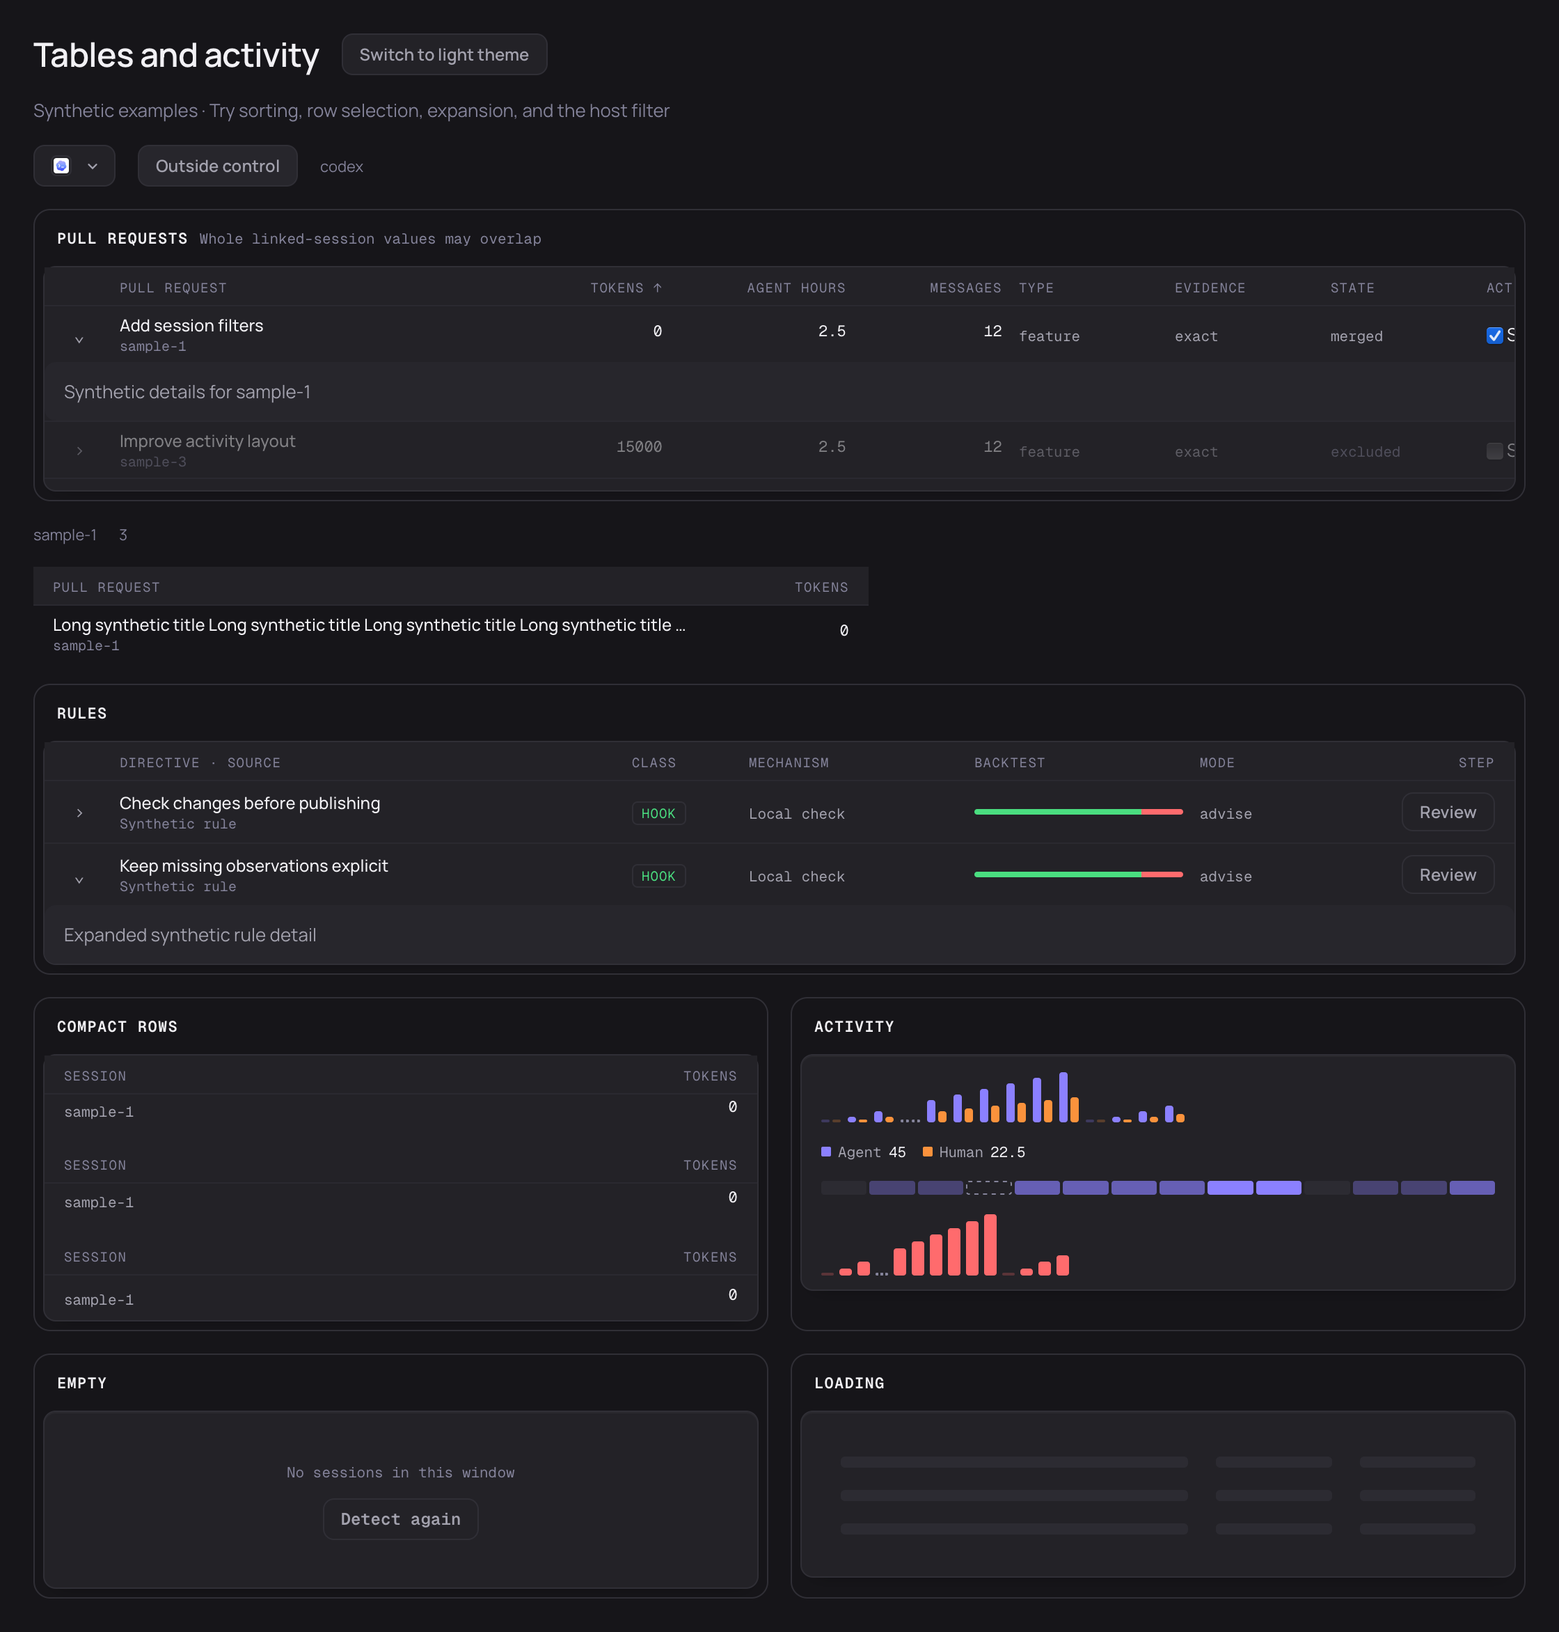
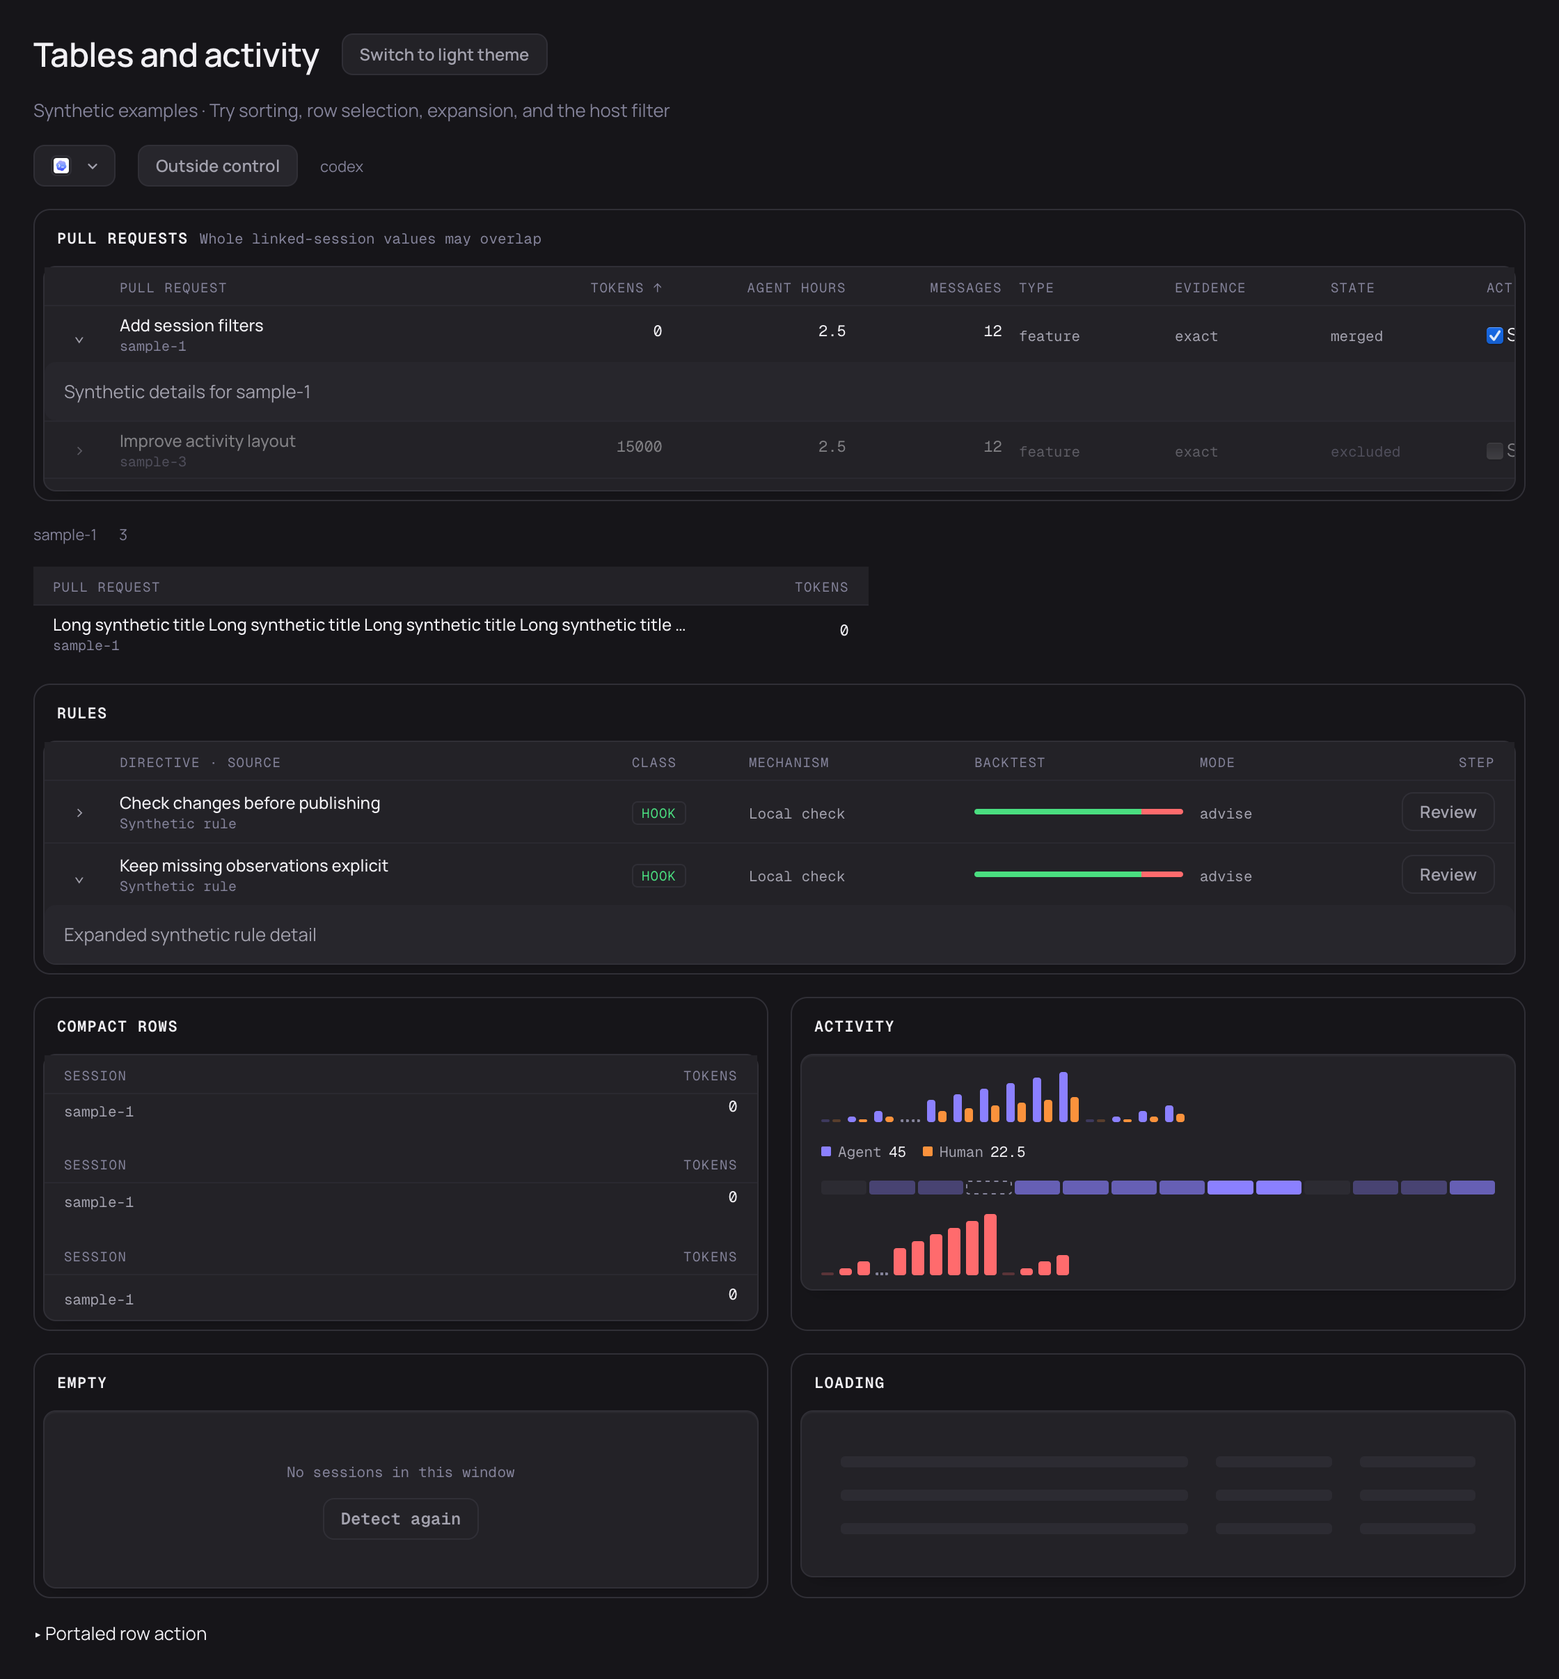
Ignore portaled events when activating table rows

diff --git a/apps/desktop/ui/e2e/table-overflow.fixture.tsx b/apps/desktop/ui/e2e/table-overflow.fixture.tsx
@@ -1,4 +1,4 @@
-import { StrictMode, useState } from 'react';
+import { StrictMode, useId, useState } from 'react';
 import { createRoot } from 'react-dom/client';
 import { ThemeProvider, useTheme } from '../src/theme/ThemeProvider';
 import {
@@ -20,6 +20,7 @@ import './table-overflow.css';
 import { Button } from '../src/kit/Button';
 import { KindBadge } from '../src/kit/Badge';
 import { ProgressBar } from '../src/kit/ProgressBar';
+import { createPopoverHandle, Popover, PopoverTrigger } from '../src/kit/Popover';
 
 type Sample = { id: string; title: string; tokens: number | null; state: string };
 const sample: Sample[] = [
@@ -76,6 +77,26 @@ const columns: Column<Sample>[] = [
     ),
   },
 ];
+function RowMenu({ onAction }: { onAction: () => void }) {
+  const [handle] = useState(createPopoverHandle);
+  const [open, setOpen] = useState(false);
+  const id = useId();
+  return (
+    <>
+      <PopoverTrigger handle={handle}>Row menu</PopoverTrigger>
+      <Popover
+        handle={handle}
+        id={id}
+        open={open}
+        onOpenChange={setOpen}
+        aria-label="Row menu popup"
+      >
+        <Button onClick={onAction}>Run cell action</Button>
+        <p>Popup help text</p>
+      </Popover>
+    </>
+  );
+}
 function Fixture() {
   const { theme, toggle } = useTheme();
   const [ruleExpanded, setRuleExpanded] = useState<string[]>(['sample-2']);
@@ -84,6 +105,7 @@ function Fixture() {
   const [sort, setSort] = useState<SortOrder>({ key: 'tokens', direction: 'desc' });
   const [clicked, setClicked] = useState('none');
   const [activations, setActivations] = useState(0);
+  const [popupActions, setPopupActions] = useState(0);
   const sorted = [...sample].sort((a, b) => {
     if (sort.key === 'tokens') {
       if (a.tokens === null) return b.tokens === null ? 0 : 1;
@@ -286,6 +308,31 @@ function Fixture() {
           <LoadingRows rows={3} />
         </SectionCard>
       </div>
+      <details>
+        <summary>Portaled row action</summary>
+        <DataTable
+          label="Portaled actions"
+          rows={sample.slice(0, 1)}
+          getRowKey={(row) => row.id}
+          onRowClick={() => setActivations((count) => count + 1)}
+          getRowActionLabel={() => 'Open portaled row'}
+          columns={[
+            {
+              key: 'title',
+              header: 'Title',
+              width: 'minmax(0,1fr)',
+              render: () => <TitleCell title="Row with popup" />,
+            },
+            {
+              key: 'menu',
+              header: 'Menu',
+              width: '100px',
+              render: () => <RowMenu onAction={() => setPopupActions((count) => count + 1)} />,
+            },
+          ]}
+        />
+        <output aria-label="Popup actions">{popupActions}</output>
+      </details>
     </main>
   );
 }

diff --git a/apps/desktop/ui/src/kit/DataTable.test.tsx b/apps/desktop/ui/src/kit/DataTable.test.tsx
@@ -1,5 +1,6 @@
 import { cleanup, fireEvent, render, screen, within } from '@testing-library/react';
 import { afterEach, expect, it, vi } from 'vitest';
+import { createPortal } from 'react-dom';
 import { DataTable, TitleCell, NumCell, type Column } from './DataTable';
 afterEach(cleanup);
 const rows = [
@@ -145,4 +146,39 @@ it('empty and busy states are explicit and mutually exclusive', () => {
   expect(screen.getByRole('table').getAttribute('aria-busy')).toBe('true');
   expect(screen.queryByText('First session')).toBeNull();
   expect(screen.queryByText('No sessions')).toBeNull();
+});
+
+it('ignores React portal events while preserving popup actions and ordinary row clicks', () => {
+  const onRowClick = vi.fn(),
+    popupAction = vi.fn();
+  render(
+    <DataTable
+      label="Portal table"
+      rows={[rows[0]]}
+      getRowKey={key}
+      onRowClick={onRowClick}
+      columns={[
+        ...columns,
+        {
+          key: 'menu',
+          header: 'Menu',
+          width: '80px',
+          render: () =>
+            createPortal(
+              <div>
+                <button onClick={popupAction}>Popup action</button>
+                <span>Popup help text</span>
+              </div>,
+              document.body,
+            ),
+        },
+      ]}
+    />,
+  );
+  fireEvent.click(screen.getByRole('button', { name: 'Popup action' }));
+  fireEvent.click(screen.getByText('Popup help text'));
+  expect(popupAction).toHaveBeenCalledOnce();
+  expect(onRowClick).not.toHaveBeenCalled();
+  fireEvent.click(screen.getByText('First session'));
+  expect(onRowClick).toHaveBeenCalledExactlyOnceWith(rows[0]);
 });

diff --git a/apps/desktop/ui/e2e/table-overflow.spec.ts b/apps/desktop/ui/e2e/table-overflow.spec.ts
@@ -141,3 +141,19 @@ test('narrow preview keeps wide tables contained and filter uses the live theme'
     page.getByRole('dialog').locator('xpath=ancestor::*[@data-theme][1]'),
   ).toHaveAttribute('data-theme', 'light');
 });
+
+test('portaled cell actions do not activate their owning row', async ({ page }) => {
+  await page.goto('/e2e/table-overflow.html');
+  await page.getByText('Portaled row action', { exact: true }).click();
+  const table = page.getByRole('table', { name: 'Portaled actions' });
+  await table.getByRole('button', { name: 'Row menu' }).click();
+  const popup = page.getByRole('dialog', { name: 'Row menu popup' });
+  await popup.getByRole('button', { name: 'Run cell action' }).click();
+  await popup.getByText('Popup help text').click();
+  await expect(page.getByRole('status', { name: 'Popup actions' })).toHaveText('1');
+  await expect(page.getByRole('status', { name: 'Row activations' })).toHaveText('0');
+  await page.keyboard.press('Escape');
+  await expect(popup).toBeHidden();
+  await table.getByText('Row with popup').click();
+  await expect(page.getByRole('status', { name: 'Row activations' })).toHaveText('1');
+});

diff --git a/apps/desktop/ui/src/kit/DataTable.tsx b/apps/desktop/ui/src/kit/DataTable.tsx
@@ -37,7 +37,8 @@ export interface DataTableProps<Row> {
   emptyMessage?: string;
 }
 
-const interactive = (target: EventTarget | null, row: HTMLElement) => {
+const ignoreRowClick = (target: EventTarget | null, row: HTMLElement) => {
+  if (!(target instanceof Node) || !row.contains(target)) return true;
   if (!(target instanceof Element) || target === row) return false;
   const control = target.closest(
     'button, a, input, select, textarea, label, summary, [role="button"], [role="checkbox"], [role="switch"], [role="radio"], [contenteditable="true"], [tabindex]',
@@ -175,7 +176,7 @@ export function DataTable<Row>({
                   }}
                   data-actionable={!!onRowClick || undefined}
                   onClick={(event) => {
-                    if (!interactive(event.target, event.currentTarget)) onRowClick?.(row);
+                    if (!ignoreRowClick(event.target, event.currentTarget)) onRowClick?.(row);
                   }}
                 >
                   {expandable && (

diff --git a/docs/acceptance/tables.md b/docs/acceptance/tables.md
@@ -2,17 +2,17 @@
 
 Issue #20 adds reusable presentation components. The live synthetic preview is `e2e/table-overflow.html` on the UI development server. It is separate from the installed application's screens.
 
-| Case           | Action                                                                                               | Expected result                                                                                                                                                                                                |
-| -------------- | ---------------------------------------------------------------------------------------------------- | -------------------------------------------------------------------------------------------------------------------------------------------------------------------------------------------------------------- |
-| Table layout   | Render eight-column and six-column tables, all five row heights, zero and missing usage              | Headers and cells share their grid; heights are 22/24/32/40/44px; numeric cells align right; missing usage has an em dash and accessible reason.                                                               |
-| Sorting        | Click a sortable header twice                                                                        | Controlled direction and `aria-sort` update; the preview sorts supplied rows and keeps missing observations last. The component itself does not reorder data.                                                  |
-| Row actions    | Click text, press Enter/Space on its named action button, activate a nested button or checkbox label | The button is discoverable by role/name, Enter/Space each call back once, and static rows are not Tab stops. The exact row reaches the callback; nested actions retain their behavior without opening the row. |
-| Expansion      | Expand, collapse and sort keyed rows                                                                 | A native disclosure button reports its state and controls a details row in the same bordered group. Expansion follows the row key.                                                                             |
-| Scrolling      | Scroll a wide table horizontally and vertically                                                      | Header and numeric cells remain aligned; the sticky header stays visible; hidden accessibility text stays inside the scroll area.                                                                              |
-| Narrow preview | Open at 360px, then switch both themes and open the filter                                           | Tables scroll internally without page overflow; the popover stays inside the viewport and receives the active palette.                                                                                         |
-| Host filter    | Open by keyboard, press Space, Tab, Escape, then reopen and click outside                            | Native checkboxes update controlled selection. Escape restores trigger focus. Outside interaction dismisses the popover. Unknown hosts and counts remain distinct from known zero.                             |
-| Microcharts    | Supply zero, missing, invalid, maximum and out-of-range observations                                 | Zero is a visible 2px mark at 25% opacity; unknown is dashed; finite bars clamp safely. All 14 day labels and threshold boundaries are correct.                                                                |
-| Empty/loading  | Render no rows or loading data; click Detect again                                                   | Named empty/loading states replace data, and the supplied action runs. Skeletons are static.                                                                                                                   |
+| Case           | Action                                                                                               | Expected result                                                                                                                                                                                                                                                                        |
+| -------------- | ---------------------------------------------------------------------------------------------------- | -------------------------------------------------------------------------------------------------------------------------------------------------------------------------------------------------------------------------------------------------------------------------------------- |
+| Table layout   | Render eight-column and six-column tables, all five row heights, zero and missing usage              | Headers and cells share their grid; heights are 22/24/32/40/44px; numeric cells align right; missing usage has an em dash and accessible reason.                                                                                                                                       |
+| Sorting        | Click a sortable header twice                                                                        | Controlled direction and `aria-sort` update; the preview sorts supplied rows and keeps missing observations last. The component itself does not reorder data.                                                                                                                          |
+| Row actions    | Click text, press Enter/Space on its named action button, activate a nested button or checkbox label | The button is discoverable by role/name, Enter/Space each call back once, and static rows are not Tab stops. The exact row reaches the callback; nested actions retain their behavior without opening the row, including buttons and noninteractive text inside a portaled cell popup. |
+| Expansion      | Expand, collapse and sort keyed rows                                                                 | A native disclosure button reports its state and controls a details row in the same bordered group. Expansion follows the row key.                                                                                                                                                     |
+| Scrolling      | Scroll a wide table horizontally and vertically                                                      | Header and numeric cells remain aligned; the sticky header stays visible; hidden accessibility text stays inside the scroll area.                                                                                                                                                      |
+| Narrow preview | Open at 360px, then switch both themes and open the filter                                           | Tables scroll internally without page overflow; the popover stays inside the viewport and receives the active palette.                                                                                                                                                                 |
+| Host filter    | Open by keyboard, press Space, Tab, Escape, then reopen and click outside                            | Native checkboxes update controlled selection. Escape restores trigger focus. Outside interaction dismisses the popover. Unknown hosts and counts remain distinct from known zero.                                                                                                     |
+| Microcharts    | Supply zero, missing, invalid, maximum and out-of-range observations                                 | Zero is a visible 2px mark at 25% opacity; unknown is dashed; finite bars clamp safely. All 14 day labels and threshold boundaries are correct.                                                                                                                                        |
+| Empty/loading  | Render no rows or loading data; click Detect again                                                   | Named empty/loading states replace data, and the supplied action runs. Skeletons are static.                                                                                                                                                                                           |
 
 ## Automated verification
 
@@ -23,7 +23,7 @@ pnpm build
 pnpm check:native --base <reviewed-main-commit>
 ```
 
-Type, lint, formatting, one Node lint regression, all 60 UI unit tests (9 focused on these components), all 40 Chromium/WebKit browser cases (6 focused here), and the production build pass. Browser tests run with Playwright 1.58.2, local fonts, synthetic data, both palettes and 1120px/360px viewports. Tests write evidence to their own result directories; reviewed WebKit captures are copied below.
+Type, lint, formatting, one Node lint regression, all 61 UI unit tests (10 focused on these components), all 42 Chromium/WebKit browser cases (8 focused here), and the production build pass. Browser tests run with Playwright 1.58.2, local fonts, synthetic data, both palettes and 1120px/360px viewports. Tests write evidence to their own result directories; reviewed WebKit captures are copied below.
 
 The local native check covers Rust formatting, Clippy, tests, dependency notices/SBOM, secret scanning, the debug bundle and launch. The PR records its exact candidate, baseline and result. Native release-floor compatibility, signing and notarization are separate release checkpoints. No hosted macOS run is added by this change.
 

diff --git a/docs/TABLES.md b/docs/TABLES.md
@@ -6,7 +6,7 @@ These components render supplied data. It does not fetch inventory, compute metr
 
 Row heights are 22, 24, 32, 40 (default) or 44px. Use single-line renderers at compact heights. `hover` selects subtle or track color. Optional `rowOpacity(row)` is clamped to 0–1, with nonfinite values treated as opaque. The cell renderer must communicate why a row is excluded; opacity alone carries no accessible meaning.
 
-`onRowClick(row)` receives pointer clicks on row text and activation of a named native button in a final 28px action column. `getRowActionLabel(row)` supplies its descriptive accessible name (default: `Open row <key>`). Enter/Space use native button behavior; static rows are not added to the Tab order. Native controls, their labels and explicitly interactive descendants retain their own action. For sorting, mark a column `sortable`, supply `sort: {key, direction}` and handle `onSort`; the table emits the next direction and exposes `aria-sort` without rearranging the supplied array.
+`onRowClick(row)` receives pointer clicks on row text and activation of a named native button in a final 28px action column. `getRowActionLabel(row)` supplies its descriptive accessible name (default: `Open row <key>`). Enter/Space use native button behavior; static rows are not added to the Tab order. Native controls, their labels and explicitly interactive descendants retain their own action. Events from portaled content are ignored by the row, even though React bubbles those events through its component tree. For sorting, mark a column `sortable`, supply `sort: {key, direction}` and handle `onSort`; the table emits the next direction and exposes `aria-sort` without rearranging the supplied array.
 
 Expansion uses `renderExpanded(row)`, controlled `expandedKeys` and `onExpandedChange`. The extra details column has a native button with `aria-expanded` and a live `aria-controls` relationship. Details render in the same bordered row group. Without an expansion callback, supplied expanded content remains visible and the control is disabled. `loading` replaces rows with a named status; an empty array shows `emptyMessage`.
 
